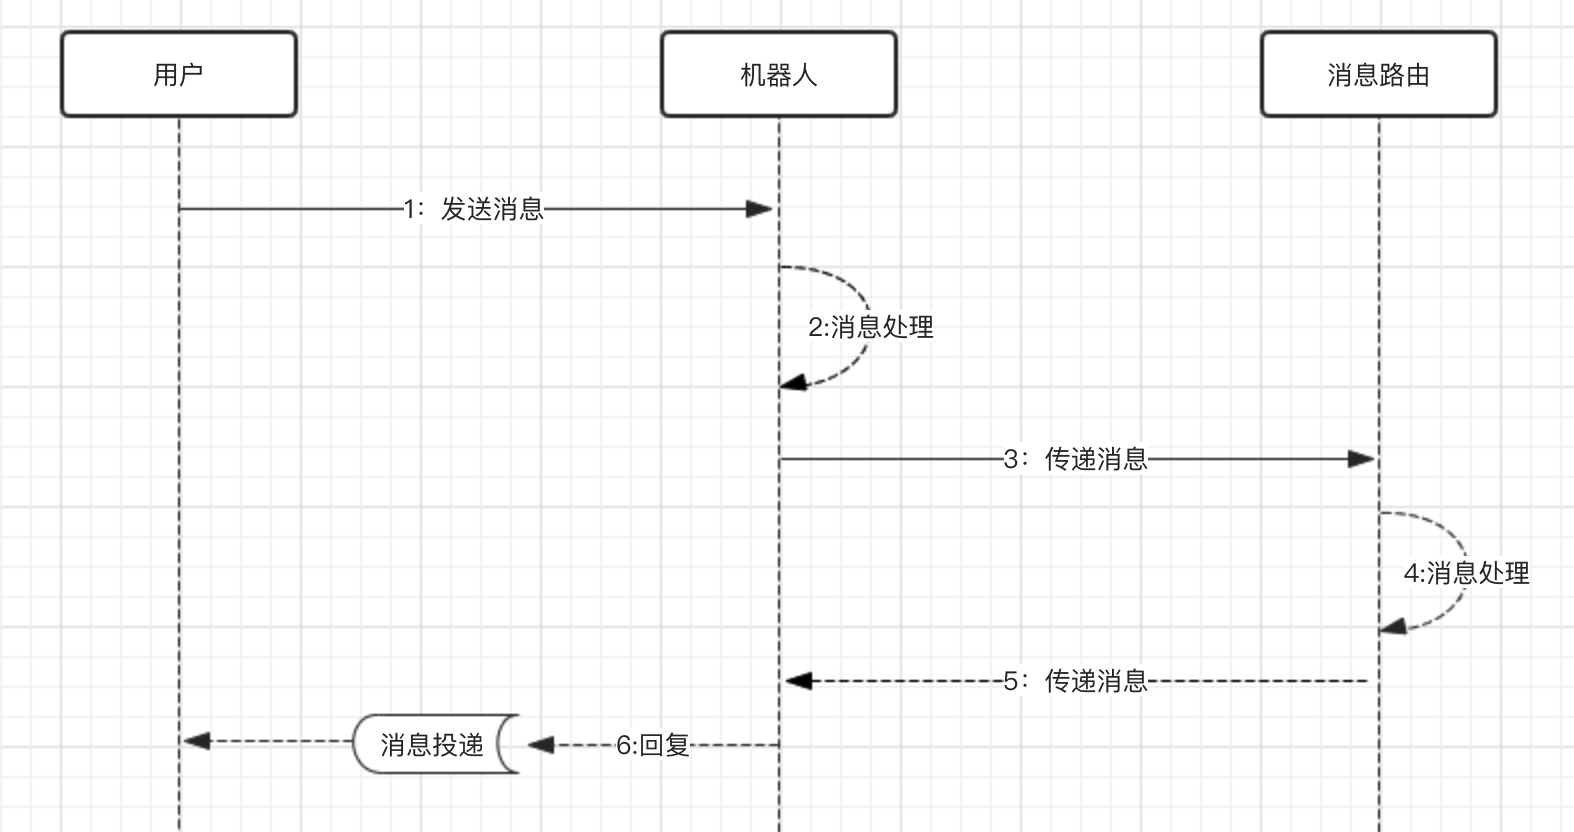
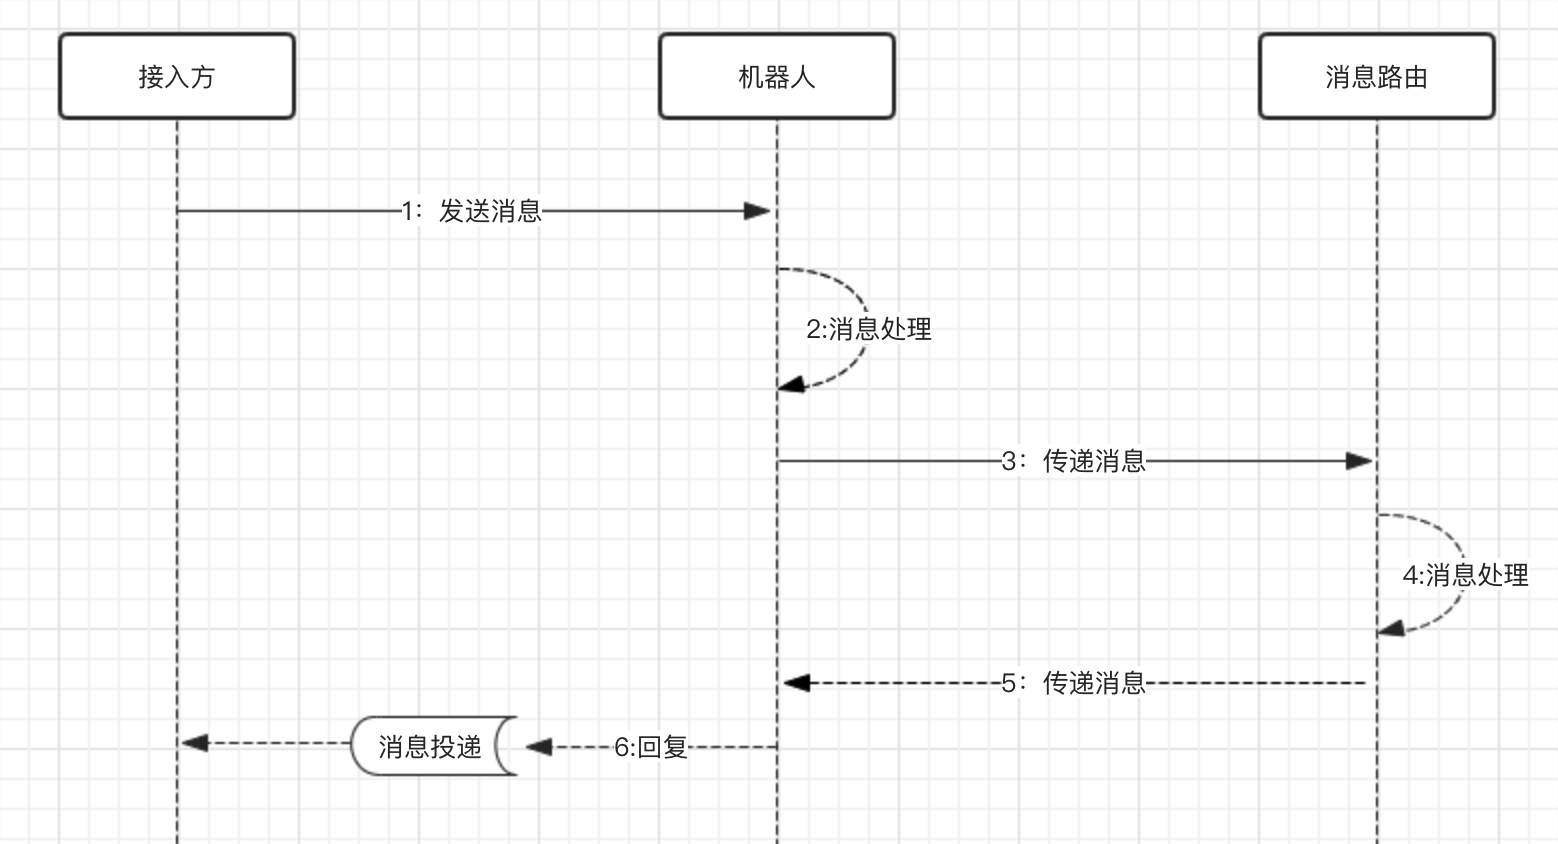
add qa and update docs

diff --git a/services/wulai/bot_response.go b/services/wulai/bot_response.go
@@ -205,3 +205,23 @@ type MsgReceive struct {
 type MsgSync struct {
 	MsgID string `json:"msg_id"`
 }
+
+/****************
+- 消息投递
+****************/
+
+//MessageDelivery 消息投递 返回数据的结构体
+type MessageDelivery struct {
+	UserID          string            `json:"user_id"`
+	SenderInfo      SenderInfo        `json:"sender_info"`
+	MsgType         MsgTypeEnum       `json:"msg_type"`
+	Extra           string            `json:"extra"`
+	MsgID           string            `json:"msg_id"`
+	Bot             Bot               `json:"bot"`
+	MsgTs           string            `json:"msg_ts"`
+	Source          string            `json:"source"`
+	MsgBody         MsgBody           `json:"msg_body"`
+	SimilarResponse []SimilarResponse `json:"similar_response"`
+	EnableEvaluate  bool              `json:"enable_evaluate"`
+	QuickReply      []string          `json:"quick_reply"`
+}

diff --git a/services/wulai/qa_test.go b/services/wulai/qa_test.go
@@ -1,0 +1,26 @@
+package wulai
+
+import (
+	"os"
+	"testing"
+
+	"github.com/laiye-ai/wulai-openapi-sdk-golang/services/common/errors"
+	"github.com/laiye-ai/wulai-openapi-sdk-golang/services/common/log"
+)
+
+func Test_QaSimilarQuestionDelete(t *testing.T) {
+
+	secret, pubkey := os.Getenv("secret"), os.Getenv("pubkey")
+	wulaiClient := NewClient(secret, pubkey)
+	wulaiClient.Version = "v2"
+	err := wulaiClient.QaSimilarQuestionDelete("id")
+	if err != nil {
+		if cliErr, ok := err.(*errors.ClientError); ok {
+			t.Errorf("[Test_QaSimilarQuestionDelete]=>%s\n", cliErr.Error())
+		} else if serErr, ok := err.(*errors.ServerError); ok {
+			log.Infof("[Test_QaSimilarQuestionDelete]=>%s\n", serErr.Error())
+		}
+
+		return
+	}
+}

diff --git a/services/wulai/qa.go b/services/wulai/qa.go
@@ -1,0 +1,31 @@
+package wulai
+
+import (
+	"fmt"
+	"strings"
+
+	"github.com/laiye-ai/wulai-openapi-sdk-golang/services/common/errors"
+	"github.com/laiye-ai/wulai-openapi-sdk-golang/services/common/log"
+)
+
+//QaSimilarQuestionDelete 删除相似问
+func (x *Client) QaSimilarQuestionDelete(id string) (err error) {
+
+	if strings.ToUpper(x.Version) == "V1" {
+
+		errMsg := fmt.Sprintf(errors.UnsupportedMethodErrorMessage, "V1", "V2")
+		return errors.NewClientError(errors.UnsupportedMethodErrorCode, errMsg, nil)
+	}
+
+	bytes, err := x.qaSimilarQuestionDeleteV2(id)
+
+	if x.Debug {
+		log.Debugf("[UserCreate Response]:%s\n", bytes)
+	}
+
+	if err != nil {
+		return err
+	}
+
+	return nil
+}

diff --git a/services/wulai/qa_v2.go b/services/wulai/qa_v2.go
@@ -1,0 +1,24 @@
+package wulai
+
+import (
+	"fmt"
+
+	"github.com/laiye-ai/wulai-openapi-sdk-golang/services/common/log"
+)
+
+//qaSimilarQuestionDeleteV2 删除相似问
+func (x *Client) qaSimilarQuestionDeleteV2(id string) ([]byte, error) {
+	url := fmt.Sprintf("%s/%s/qa/similar-question/delete", x.Endpoint, x.Version)
+	input := fmt.Sprintf(`{"id": "%s"}`, id)
+
+	if x.Debug {
+		log.Debugf("[Request URL]:%s\n [Input]: %s\n", url, input)
+	}
+
+	respBytes, err := x.HTTPClient.Request("POST", url, []byte(input), 1)
+	if err != nil {
+		return nil, err
+	}
+
+	return respBytes.ResponseBodyBytes, nil
+}

diff --git a/docs/callback.md b/docs/callback.md
@@ -1,0 +1,73 @@
+### 回调类接口实现
+
+
+#### 消息路由
+> 消息路由即 Webhook ，该 Web 服务需要开发者自己搭建，并且需要遵从开放平台预先定义好的输入输出。  
+  机器人每次响应，吾来会把机器人回复内容、对话解析结果传给消息路由，
+  调用方可以按需使或修改消息体内容达到影响机器人回复的目的  
+  消息路由可视为：在获取机器人回复前（bot-response），对response的预处理。  
+  在同步方式、异步方式中均可使用。
+
+go code example
+
+```go
+
+
+```
+
+
+#### 消息投递
+> 调用方开发。如果机器人对接第三方渠道，机器人做出响应后，会调用消息投递接口，将消息投递到第三方渠道。
+
+**注意**：
+1) 此接口可保证至少投递一次（即服务质量QOS=At least once，不保证100%消息只投递一次）；
+2) 此接口不能保证消息100%按照消息发送的顺序投递
+
+**因此建议**：
+1) 接入方根据msg_id做去重
+2) 接入方根据msg_ts在客户端做重排序
+
+go code example
+
+```go
+package main
+
+import (
+	"flag"
+	"fmt"
+	"io/ioutil"
+	"log"
+	"net/http"
+)
+
+//CallbackHandler 接收吾来平台回调, 返回信息给客户端
+func CallbackHandler(w http.ResponseWriter, r *http.Request) {
+	//request log
+	log.Printf("[/]=>remote=>%s host=>%s   url=>%s   method=>%s\n", r.RemoteAddr, r.Host, r.URL, r.Method)
+
+	respBytes, err := ioutil.ReadAll(r.Body)
+	if err != nil {
+		log.Printf("%s\n", err)
+		return
+	}
+
+	log.Printf("[message delivery log]=>%s\n", respBytes)
+	w.Write([]byte("success"))
+}
+
+func main() {
+
+	var port int
+	flag.IntVar(&port, "p", 8000, "端口号")
+	flag.Parse()
+
+	//设置接受机器人答案的函数
+	http.Handle("/callback", http.HandlerFunc(CallbackHandler))
+
+	//设置http服务
+	ip := fmt.Sprintf(":%v", port)
+	log.Printf("listen on:%s\n", ip)
+	http.ListenAndServe(ip, nil)
+}
+
+```

diff --git a/docs/LOG.md b/docs/LOG.md
@@ -1,4 +1,4 @@
-### log 说明
+### log使用说明
 
 
 log 使用示例
